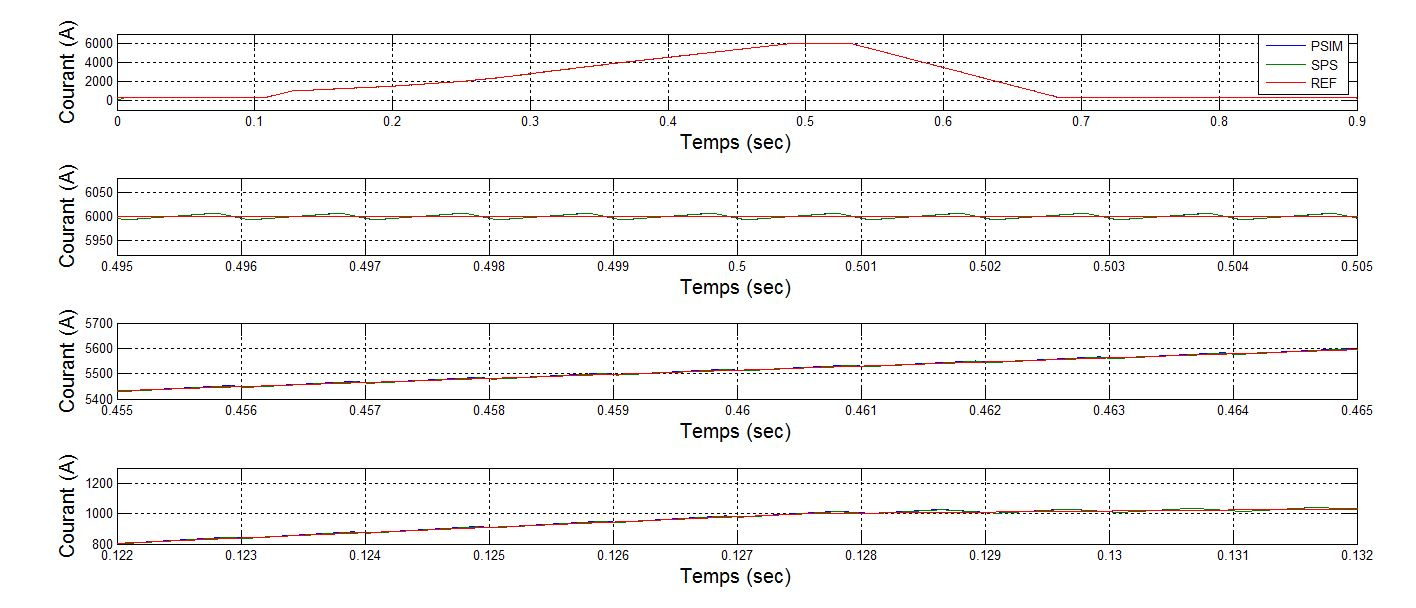
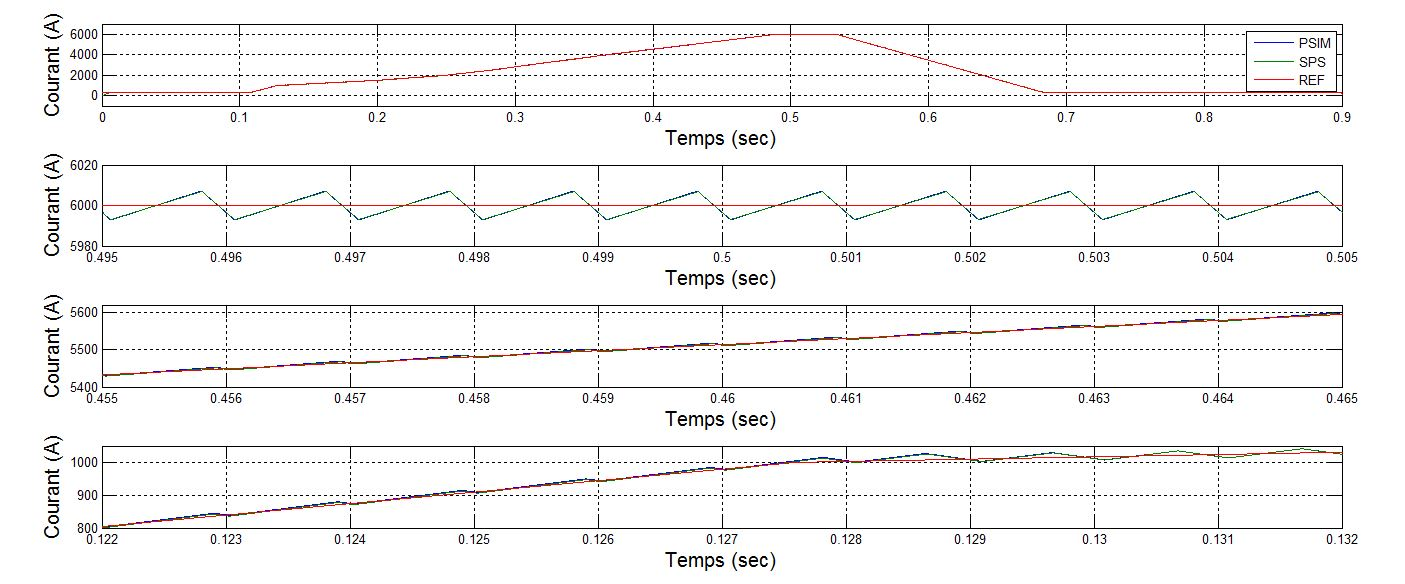
modifs d'une figure

Changed region(s): [[0.0306, 0.4932, 0.9794, 0.9863], [0.0306, 0.2466, 0.9794, 0.4932], [0.0306, 0.0308, 0.9794, 0.2466]]

diff --git a/Remise/Documentation_technique/Croos Validation/ScriptMatlab/AFE_HACH.m b/Remise/Documentation_technique/Croos Validation/ScriptMatlab/AFE_HACH.m
@@ -69,7 +69,7 @@ grid on
 subplot(4,1,2)
 plot(Time,IMagnet,hach4quadrants.time,hash.signals(1).values(:,2),Time,IRef)
 xlim([0.495,0.505]);
-ylim([5920,6080]);
+ylim([5980,6020]);
 xlabel('Temps (sec)','FontSize',15)
 ylabel('Courant (A)','FontSize',15)
 grid on
@@ -78,7 +78,7 @@ grid on
 subplot(4,1,3)
 plot(Time,IMagnet,hach4quadrants.time,hash.signals(1).values(:,2),Time,IRef)
 xlim([0.455,0.465]);
-ylim([5400,5700]);
+ylim([5400,5620]);
 xlabel('Temps (sec)','FontSize',15)
 ylabel('Courant (A)','FontSize',15)
 grid on
@@ -87,7 +87,7 @@ grid on
 subplot(4,1,4)
 plot(Time,IMagnet,hach4quadrants.time,hash.signals(1).values(:,2),Time,IRef)
 xlim([0.122,0.132]);
-ylim([800,1300]);
+ylim([800,1050]);
 xlabel('Temps (sec)','FontSize',15)
 ylabel('Courant (A)','FontSize',15)
 grid on
